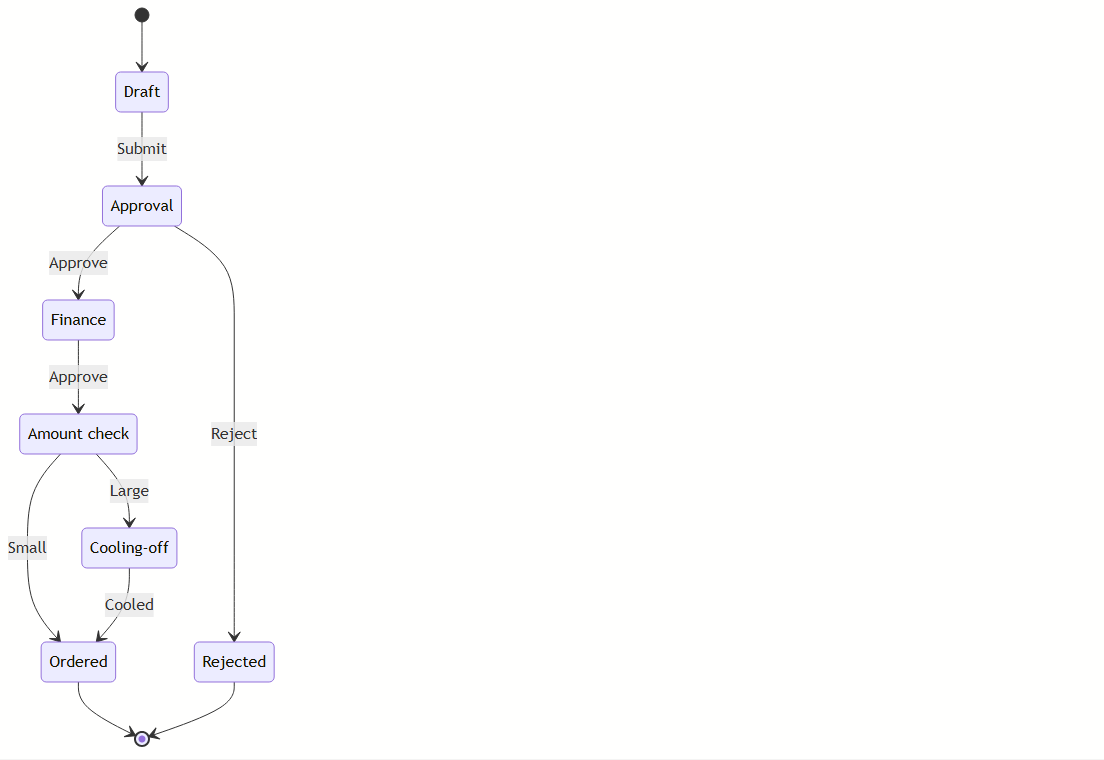
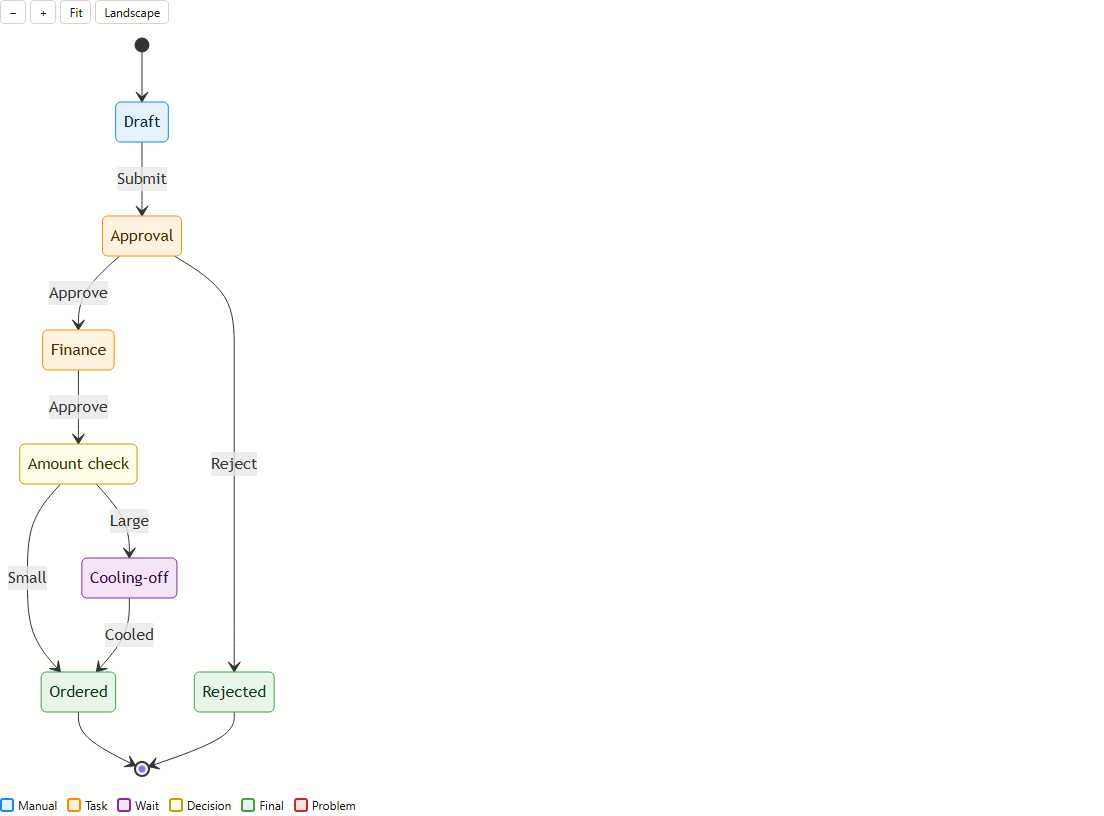
Docs: designer round in README, integrating.md and handoff; AI assist design note (XSM-026)
README: live validation in the designer (new screenshot replaces the old
"publish refused" one), the comparison table, the diagram colors and the
instance diagram, and the second E2E test. integrating.md: validation
while editing and what it shows, Target Type picked from the non-abstract
IWorkflowSubject classes, the Workflow link opening the instance diagram.
docs/ai-assist.md: the XSM-026 spike's design note (model proposes a
WorkflowDef draft, the validator gates it, a person publishes; nothing
built). Handoff lists the round's commits and the open XSM-029.

Checked by Codex against the code; its five findings are fixed.

diff --git a/docs/ai-assist.md b/docs/ai-assist.md
@@ -1,0 +1,72 @@
+# AI assist in the designer: design note (XSM-026 spike)
+
+**Status: design only, nothing built.** This note answers the spike card's questions. Build work would become its own cards.
+
+## What it is for
+
+Three uses, in the order they would pay off:
+
+1. **Draft a definition from a sentence.** "Purchase requests over 1000 also need Finance, then wait a day before ordering"
+   becomes a draft definition. The designer reviews it, the validator checks it, a person publishes it.
+2. **One-click fixes from validator findings.** Since XSM-024 each finding names its cause and, where it has one, its
+   state ("'End' has no way out: make it Final, or add a transition from it"). A fix proposal turns that into a concrete
+   change the designer applies or rejects.
+3. **"Why is my request stuck?"** for participants, answered from the instance, its open tasks and its timer.
+
+What it is not for: explaining a validation error. That is the validator's job, done deterministically since XSM-024,
+and a model would only rephrase it.
+
+## The rule that makes it safe: the model proposes, the engine decides
+
+- The model never writes entities. It returns a **`WorkflowDef`-shaped JSON document** (states, transitions, effects),
+  the same record the engine already validates, draws and dry-runs.
+- The module maps that document into a **Draft** through `DefinitionMapper.ToDraft`, runs `DefinitionService.Validate`,
+  and shows the result: the same red states, Problem column and diagram as a hand-made draft (XSM-027).
+- **It never publishes.** Publish stays a person's action with its own server-side validation, so a model cannot put a
+  flow into use.
+- A proposal that fails validation is shown with its findings, not silently repaired. A second model call may be offered
+  ("fix these findings"), and its output goes through the same gate.
+
+## What the model sees
+
+For a draft, only what a designer could type into the definition anyway:
+
+- the target subject type's **workflow members** as `WorkflowMembers.Supported` lists them (name, type): what Set field
+  effects and locks may use (criteria are checked separately and may reach further; restricting a model's criteria to
+  these members would be an extra rule of the build);
+- the **role names** from `WorkflowRoleCatalog` (names only, no users);
+- the **step types** and their rules, as a short fixed text generated from the validator's rules;
+- for a fix proposal: the current draft as `WorkflowDef` JSON plus its findings.
+
+It sees **no subject rows, no users and no sent notifications**. It does see the definition itself, and a definition can
+contain business content: notification templates, Set field values and literals in criteria. A build must say so where
+the designer triggers it, or offer to send the draft without those texts. The "stuck request" use (3) is the
+exception and needs its own permission check: only the instance, its tasks and timer, read through the asking user's
+secured object space, never the subject's other members.
+
+## Where the model comes from
+
+The host's AI setup, not a second stack in the module:
+
+- BPGDemo (and so BPG's generated apps) already has an **`AiSettings`** entity and a **`TornadoClientFactory`**, and
+  bpg AI-001 plans the XafTornado assistant for generated apps. The module would define one small interface (for example
+  `IWorkflowDraftAssistant.Propose(prompt, context) -> WorkflowDef JSON`) and the host implements it on its own client.
+- Credentials stay where the host keeps them (encrypted in its database, managed in its settings UI), never in an
+  environment variable or in this module.
+- Without a registered implementation the designer shows no AI actions: the module works exactly as today.
+
+## Cost and latency (estimates, not measured)
+
+- A draft request is one call with a few thousand tokens of context (members, roles, rules) and a short JSON answer.
+  Expect seconds, not milliseconds; the UI shows it as a background action with a busy state.
+- Validation, drawing and dry run of the proposal are the existing local code: milliseconds.
+- Nothing runs unless a designer asks, so cost scales with designer actions, not with workflow traffic. The runtime
+  (Start, Fire, Decide, timers) never calls a model.
+
+## Open questions for a build card
+
+- Which model and provider the host uses, and whether the answer must be forced into JSON by the provider (structured
+  output) or parsed and re-asked on failure.
+- Whether "draft from a sentence" should also propose the subject type's missing members, or stop at what exists.
+- Whether the same generator serves bpg WF-008 (spec workflow to seeded definition), which would make the JSON contract
+  the shared piece between BPG and this module. That is the main reason to design it once.

diff --git a/README.md b/README.md
@@ -8,7 +8,11 @@ publish**, and running work stays on the version it started on. The published de
 state**, in the UI and again at save. The **diagram is generated from the same definition** that runs, so the picture
 cannot drift from the behaviour.
 
-![Designer publishing v2: refused while the new 'finance' state has no way out](docs/screenshots/publish-refused-no-way-out.png)
+![Designer editing v2: the new 'finance' state has no way out, so its row and its diagram state are red and Publish is disabled](docs/screenshots/designer-live-validation.png)
+
+The designer validates as you edit: a problem with a state shows on that state, in red in the States list and in the
+diagram; problems of the definition as a whole (for example "no state is Final") are listed under the diagram. Publish
+and Dry run stay disabled until everything is fixed.
 
 ## Compared with XAF's StateMachine module
 
@@ -21,9 +25,9 @@ XAF's built-in StateMachine module was checked against dxdocs pages 113713, 1137
 | Waiting / timers | None | The Wait step, fired by a per-minute runner |
 | Human tasks | None | The Task step, whose outcomes are the outgoing triggers |
 | Safe editing | Edits apply live to running objects | Draft → Published → Retired; running work stays pinned to its version |
-| Validation | None | At publish: reachability, a way out, no stuck wait, no automatic loop, and criteria, role and field checks |
+| Validation | None | While editing and again at publish: reachability, a way out, no stuck wait, no automatic loop, and criteria, role and field checks; a problem with a state is marked on that state, the rest are listed as messages |
 | Lock fields per state | Yes: `StateAppearance`, UI only | Yes: locked in the UI and refused at save |
-| Diagram | None | Mermaid, generated from the definition that runs |
+| Diagram | None | Mermaid, generated from the definition that runs: colored by step type, problems in red, a request's current state highlighted |
 
 ## Architecture
 
@@ -51,6 +55,8 @@ and dark themes.
 | The diagram of v2, after the designer added the Finance step | A human task: the outcomes are the state's outgoing triggers |
 | ![A locked field refused at save](docs/screenshots/field-lock-refused.png) | ![A request after its timed wait](docs/screenshots/request-laptop-ordered.png) |
 | Amount is locked in Approval: an edit that races the transition is refused at save | A 5,000 request went through the Cooling-off wait by itself; the Set field step checked Ordered |
+| ![A request's workflow with its current state highlighted](docs/screenshots/instance-diagram-current-state.png) | |
+| A request's workflow, drawn from the version it runs on, current state highlighted | |
 
 More screenshots are in [`docs/screenshots/`](docs/screenshots/).
 
@@ -63,13 +69,15 @@ Proof of concept, feature-complete for the demo:
   who started the workflow);
 - per-state field locks;
 - the permission matrix;
-- the diagram.
+- the designer: Target Type picked from the workflow subject classes, validation while editing (problem states in red in
+  the list and the diagram, Publish and Dry run gated), the diagram with zoom, portrait/landscape and colors by step type.
 
 Coverage:
 - Engine and module: unit and LocalDB tests (`dotnet test XafStateless.slnx`).
 - The designer journey: one end-to-end Playwright test against the running demo (`tests/XafStateless.E2E`). It creates
-  v2 with a new Finance step, is refused at publish until the step has a way out, and shows that a v2 request passes
-  Finance while a v1 request started earlier does not.
+  v2 with a new Finance step, sees Publish disabled and the step marked until it has a way out, and shows that a v2
+  request passes Finance while a v1 request started earlier does not. A second test picks the target type of a new
+  definition.
 
 Host trial: the module was added to the BPGDemo skeleton by following [docs/integrating.md](docs/integrating.md), with no
 module change; results and findings are in [docs/host-trial.md](docs/host-trial.md). There is no NuGet package yet. Open

diff --git a/SESSION_HANDOFF.md b/SESSION_HANDOFF.md
@@ -6,7 +6,7 @@
 
 - Tasks 1–9 of the plan are implemented, task-reviewed and fixed (cards XSM-001…XSM-009, XSM-011, XSM-012).
 - A final whole-branch review ran; its Critical/Important findings were fixed in `5152782` and re-reviewed clean.
-- Tests: `dotnet test XafStateless.slnx` → Engine 40, Module 109, all green. E2E (`tests/XafStateless.E2E`, needs the demo running on a freshly seeded database — see README) passed 1/1.
+- Tests: `dotnet test XafStateless.slnx` → Engine 52, Module 116, all green. E2E (`tests/XafStateless.E2E`, needs the demo running on a freshly seeded database — see README) passes 2/2.
 - Docs: `README.md` (pitch, comparison with XAF StateMachine, screenshots, how to run), `docs/integrating.md` (host contract + limits), architecture diagram `docs/architecture/xafstateless-architecture.html`.
 
 ## BPGDemo trial — done
@@ -31,6 +31,25 @@ The trial integration (plan `docs/superpowers/plans/2026-09-26-bpgdemo-trial.md`
 - E2E runs against a separate catalog so `XafStatelessDemo` stays untouched: pass
   `--ConnectionStrings:ConnectionString=...Initial Catalog=XafStatelessE2E` to both demo exe calls (seed and run).
   One E2E run failed at opening the finance task while the machine was busy with a Codex review; reruns passed.
+  (That failure turned out to be XSM-029, below.)
+
+## Designer round (2026-09-26/27, from the user's demo feedback; card lanes are on the board)
+
+- XSM-022 `058bb82`: Target Type Name picked from the classes implementing IWorkflowSubject; the transition's Trigger
+  reads "Action name". XSM-023 `058bb82`: diagram zoom, fit and portrait/landscape.
+- XSM-024 `072b724`: the validator names the cause (e.g. "no state is Final") instead of symptoms, as findings tagged
+  with their state.
+- XSM-025 `3a524ff`: the Target Type list shows class captions, stores the full name.
+- XSM-027 + XSM-028 `ad31fbb`: validation while editing (state problems as red rows and red diagram states, the rest as
+  messages under the diagram; Publish and Dry run disabled until valid; Validate without saving); diagram colored by step type with a legend; a request's instance view
+  shows its diagram with the current state highlighted.
+- XSM-026 (spike): design note `docs/ai-assist.md`: AI drafts and fixes that the validator gates, never publishes.
+- **Open: XSM-029** (high priority). Decide once executed Reject when the E2E clicked Approve, about 1 run in 8,
+  only when clicking within milliseconds of the menu opening. The E2E waits 300 ms now and has passed every run since;
+  whether a person can hit it is unproven. The card lists the evidence and the next step (a minimal XAF repro).
+- Codex: the daemon works again since codex-cli 0.157.1 (`--no-daemon` no longer needed). Its sandbox sometimes cannot
+  read files; the review script then embeds the diff in the prompt. The plugin's stop-time review gate is still off for
+  this repo; turning it back on is your call.
 
 ## BPG decision (2026-09-26)
 

diff --git a/docs/integrating.md b/docs/integrating.md
@@ -218,6 +218,12 @@ PermissionPolicyRole GrantRole(string name, Action<PermissionPolicyRole> grant) 
   - Name the role **before** the call. It throws `ArgumentException` for an unnamed role.
 - **The designer actions check role names.** New version, Validate, Publish and Dry run show only to users holding a
   role named `Administrators` or `WorkflowDesigners`. Use exactly those names.
+- **The designer validates as it edits.** The definition view validates what is on screen, saved or not, on every
+  change: a state with a problem gets a red row and a Problem text in the States list and a red box in the diagram
+  (problems of the definition as a whole are listed under the diagram), and
+  Publish and Dry run stay disabled (their tooltip names the first problem) until it validates. Validate shows the
+  result without saving. The service validates again on Publish and Dry run. Edits saved in a separate state or
+  transition tab reach the definition view when it refreshes (its Refresh action).
 - **Start and Transition need Write on the subject.** Reading a subject is not enough to start its workflow or to fire
   one of its manual transitions, even one without a required role: the runtime checks Write on the subject through the
   caller's security strategy (`IsGrantedExtensions.CanWrite`) and refuses with "changing the workflow of this
@@ -265,7 +271,8 @@ public class PurchaseRequest : BaseObject, IWorkflowSubject
   API writes too: changing a locked field or deleting a subject whose workflow is in a non-Final state returns 400
   with the guard's message.
 - `Workflow` is the link to the running instance. The runtime owns it and the guard refuses user changes. Its display
-  text is the current state's caption, so list views can show and filter on it.
+  text is the current state's caption, so list views can show and filter on it. Opening it shows the instance with the
+  diagram of the version it runs on, its current state highlighted.
 - On a subject's detail view, the module adds the **Start workflow** action (Published definitions whose target type is
   this class) and the **Transition** action (the manual transitions the user may fire now). Both are hidden from a user
   without Write on the subject.
@@ -274,7 +281,8 @@ public class PurchaseRequest : BaseObject, IWorkflowSubject
   members: string, number, bool, DateTime, Guid and enum. `ID`, `Workflow`, the lock field, references and collections
   are excluded.
 
-A designer then creates a definition with the subject's full class name as **Target Type Name**, and publishes it.
+A designer then creates a definition, picks the subject class in **Target Type Name** (the list offers every persistent,
+non-abstract class implementing `IWorkflowSubject`, by caption; the full class name is stored), and publishes it.
 
 ## 8. Timer (Wait states)
 
